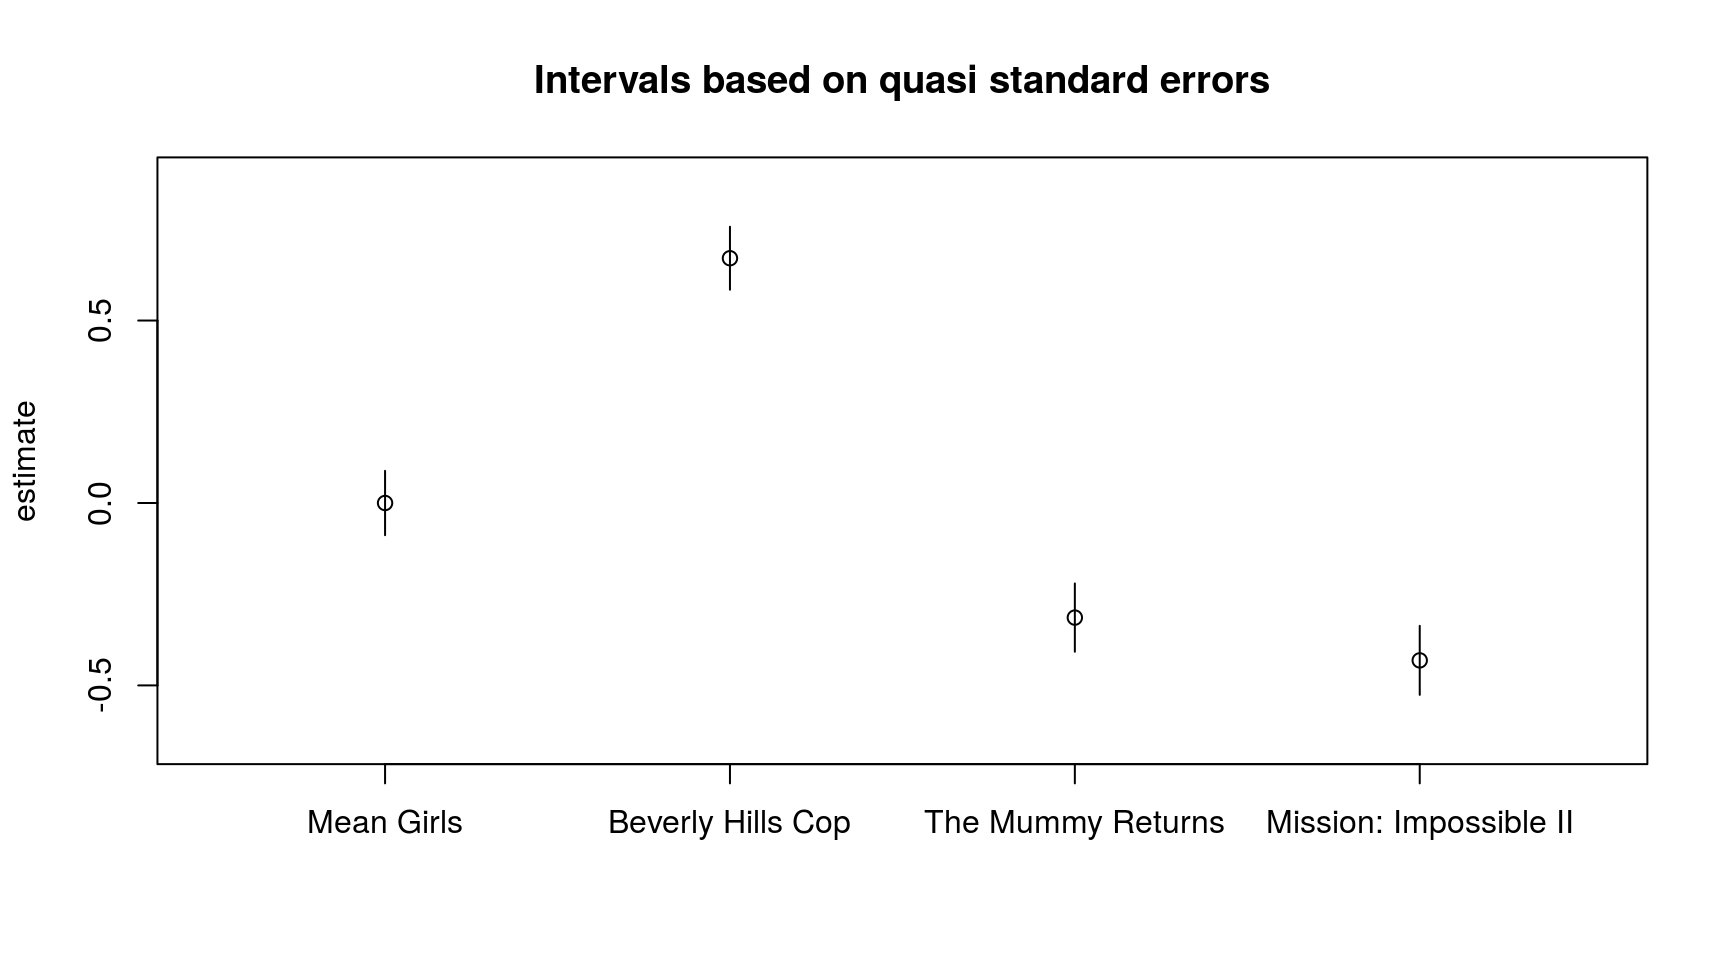
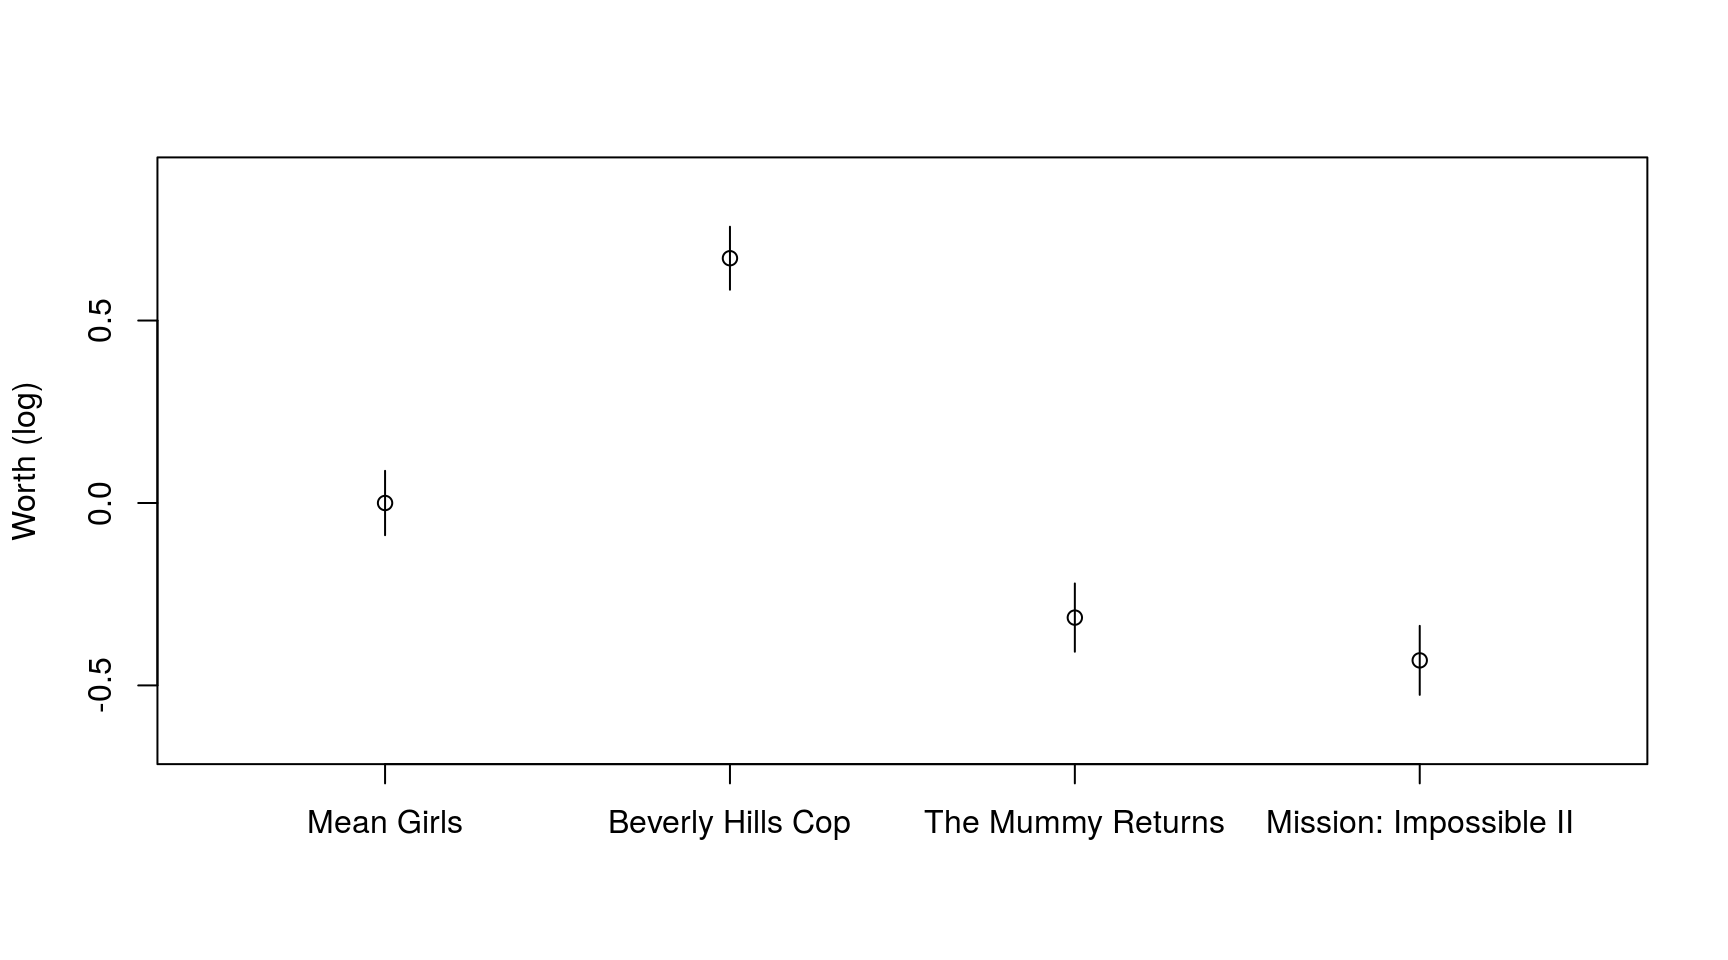
improve plot annotation in README

Changed region(s): [[0.3125, 0.0625, 0.75, 0.0938], [0.0, 0.4062, 0.0312, 0.5625]]

diff --git a/docs/index.html b/docs/index.html
@@ -155,7 +155,7 @@
 <p>In this way, Mean Girls is treated as the reference movie, the positive parameter for Beverly Hills Cop shows this was more popular among the users, while the negative parameters for the other two movies show these were less popular.</p>
 <p>Comparisons between different pairs of movies can be made visually by plotting the log-worth parameters with comparison intervals based on quasi standard errors.</p>
 <pre class="sourceCode r" id="cb15"><code class="sourceCode r"><a class="sourceLine" id="cb15-1" data-line-number="1">qv &lt;-<span class="st"> </span><span class="kw"><a href="http://www.rdocumentation.org/packages/qvcalc/topics/qvcalc">qvcalc</a></span>(mod)</a>
-<a class="sourceLine" id="cb15-2" data-line-number="2"><span class="kw">plot</span>(qv)</a></code></pre>
+<a class="sourceLine" id="cb15-2" data-line-number="2"><span class="kw">plot</span>(qv, <span class="dt">ylab =</span> <span class="st">"Worth (log)"</span>, <span class="dt">main =</span> <span class="ot">NULL</span>)</a></code></pre>
 <p><img src="reference/figures/qv-1.png" width="864"></p>
 <p>If the intervals overlap there is no significant difference. So we can see that Beverly Hills Cop is significantly more popular than the other three movies, Mean Girls is significant more popular than The Mummy Returns or Mission: Impossible II, but there was no significant difference in users’ preference for these last two movies.</p>
 </section><section id="going-further" class="level2"><h2>Going Further</h2>

diff --git a/README.md b/README.md
@@ -196,7 +196,7 @@ quasi standard errors.
 
 ``` r
 qv <- qvcalc(mod)
-plot(qv)
+plot(qv, ylab = "Worth (log)", main = NULL)
 ```
 
 ![](man/figures/qv-1.png)<!-- -->
